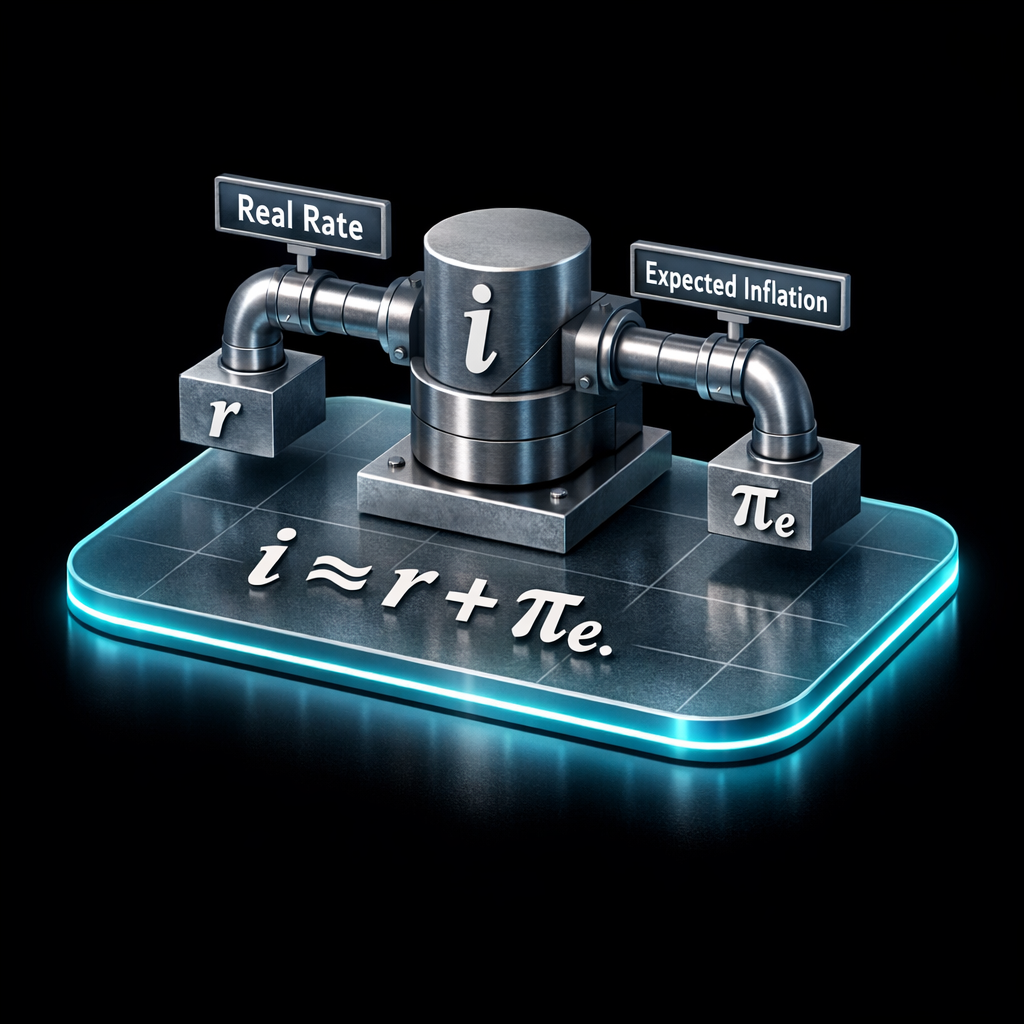
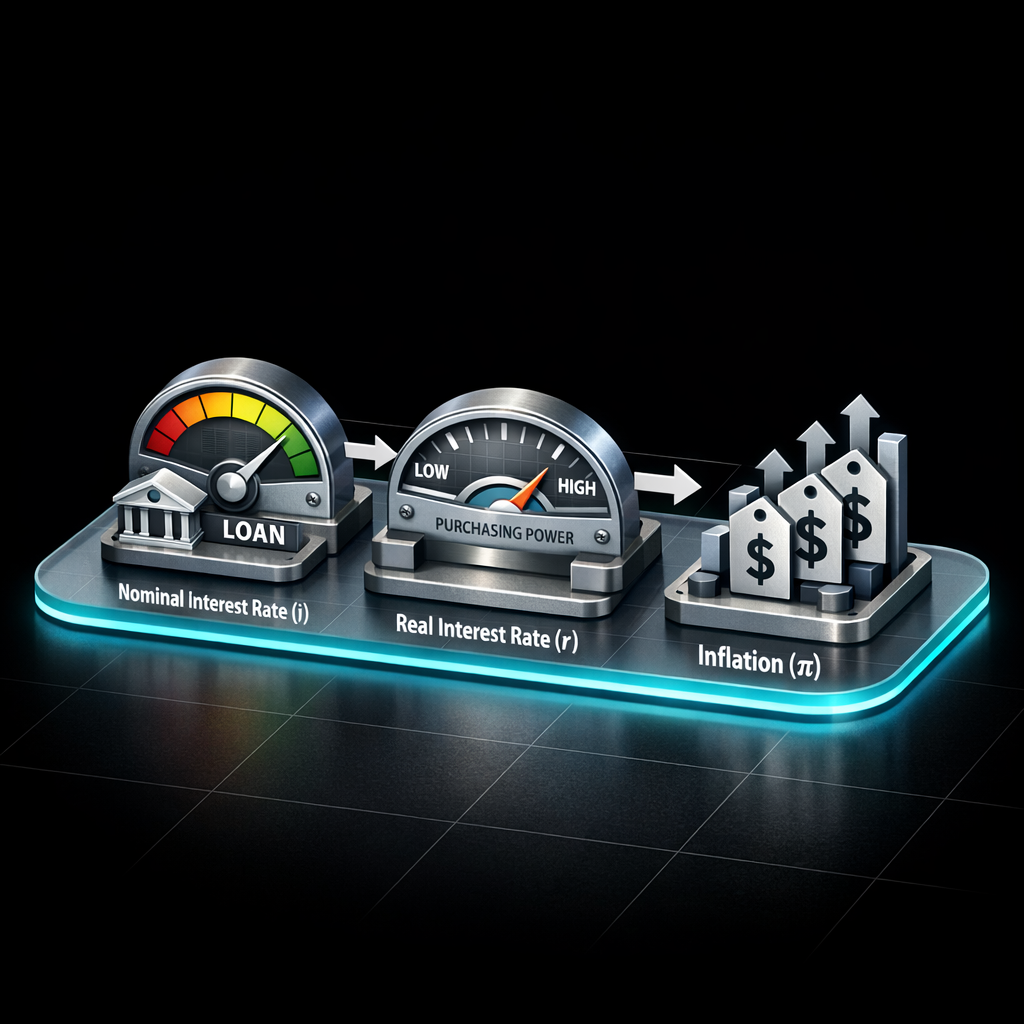
agent2

diff --git a/agent_simulator.py b/agent_simulator.py
@@ -1,7 +1,7 @@
 import os
 import json
-import requests
 import base64
+import requests
 from openai import OpenAI
 from dotenv import load_dotenv
 
@@ -13,6 +13,11 @@ load_dotenv()
 API_KEY = os.getenv("OPENAI_API_KEY")
 client = OpenAI(api_key=API_KEY)
 
+# 🚨 CONTROL FLAGS
+# True = Call API & Save Images. 
+# False = Print Prompts Only.
+GENERATE = False 
+
 # 🚨 MODEL SETTINGS
 LLM_MODEL = "gpt-5.2"          
 IMAGE_MODEL = "gpt-image-1.5"  
@@ -23,47 +28,63 @@ IMAGE_MODEL = "gpt-image-1.5"
 
 class EconomicStoryboardAgent:
     def __init__(self):
+        # ----------------------------------------------------------
+        # 1. THE "REALISM + CLARITY" DNA 
+        # ----------------------------------------------------------
         self.entity_style_dna = """
-        Visual Style: Minimalist 3D isometric, institutional design.
-        Material: Realistic steel/concrete machinery sitting on the glass base.
-        Lighting: Cinematic studio lighting with soft reflections on the floor.
+        Visual Style: High-fidelity, photorealistic miniature simulation.
+        
+        CRITICAL COMPOSITION RULES (Anti-Clutter):
+        - DISTINCT GROUPS: Do not clump agents/objects together. Use negative space to separate different elements.
+        - SILHOUETTES: Every object must have a clear, readable outline.
+        - ZONING: Organize the scene into clear 'zones' (e.g., Production Zone vs. Shipping Zone) rather than a chaotic mix.
+        - DEPTH: Use depth of field to keep the main action in sharp focus.
+        
+        Content Rules:
+        - NO METAPHORS (No magic, scales, monsters, balloons).
+        - SHOW THE MECHANISM (Price tags, inventory piles, idle machinery, shipping queues).
+        - INFRASTRUCTURE: Use realistic industry assets (conveyor belts, server racks, shipping containers).
+        - ACTORS: Realistic tiny humans in appropriate attire.
         """
         
         # ----------------------------------------------------------
-        # 💎 NEW BASE STYLE: "Glassmorphism / Tech-Neon"
+        # 2. THE "TECH-GLASS" BASE
         # ----------------------------------------------------------
         self.stage_settings = """
-        View: Isometric orthographic projection.
-        
-        Base: A thin, translucent frosted-glass platform (acrylic). 
-        - Shape: A sleek, rounded rectangle with smooth beveled edges.
-        - Glow: Soft neon blue/teal emission on the edges only.
-        - Thickness: Very slim/wafer-thin floating profile.
-        
-        Background: Pitch black void to make the neon edges pop.
-        Grid: Faint, laser-etched white grid lines on the glass surface.
-        """        
-
-
-        """ original
-        self.entity_style_dna =
-        Visual Style: Minimalist 3D isometric, institutional/civic design.
-        Material: Realistic steel/concrete, not cartoonish.
-        Lighting: Cinematic studio lighting.
-        
-        self.stage_settings =
-        View: Isometric orthographic.
-        Base: Rounded concrete base on black background.
-        Grid: Faint slanted grid on floor.
+        Stage Design:
+        - Base: A wafer-thin, translucent frosted-glass platform (acrylic style).
+        - Edges: Smooth, rounded corners with a soft neon blue/teal edge emission.
+        - Environment: Pitch black void. The only light comes from the scene and the base glow.
+        - Perspective: Isometric orthographic.
         """
-       
 
     def plan_scenes(self, concept):
-        print(f"🎬 Director ({LLM_MODEL}): Planning '{concept}'...")
+        print(f"🎬 Director ({LLM_MODEL}): Planning extended simulation for '{concept}'...")
+        
         prompt = f"""
-        Analyze "{concept}". Break into 1-3 scenes.
-        Return JSON ONLY: {{ "scenes": [ {{ "step": 1, "title": "Title", "sector": "Sector", "visual_action": "Action" }} ] }}
+        You are a Realistic Economic Simulator.
+        Goal: Visualize the concept "{concept}" using ONLY literal, physical economic activities.
+        
+        INSTRUCTIONS:
+        1. Analyze the complexity of the concept.
+        2. Break it down into a chronological sequence of simulation states.
+        3. DYNAMIC LENGTH: Use between 2 to 6 scenes. Do not rush. If the concept needs 5 steps to show the cause-and-effect properly, use 5 steps.
+        
+        STRICT VISUAL RULES:
+        - NO VISUAL METAPHORS.
+        - SHOW CAUSE & EFFECT (e.g., Step 1: Factory running; Step 2: Supply shortage; Step 3: Production halts).
+        
+        Return JSON ONLY: 
+        {{ "scenes": [ 
+            {{ 
+                "step": 1, 
+                "title": "State 1 Title", 
+                "sector": "Industry Type", 
+                "visual_action": "Detailed description emphasizing distinct object separation." 
+            }} 
+        ] }}
         """
+        
         try:
             response = client.chat.completions.create(
                 model=LLM_MODEL, 
@@ -77,70 +98,81 @@ class EconomicStoryboardAgent:
 
     def generate_prompt(self, scene_data):
         return f"""
-        Isometric icon of {scene_data['sector']}.
-        Action: {scene_data['visual_action']}.
+        A photorealistic 3D isometric simulation of {scene_data['sector']}.
+        
+        SCENE ACTION (Literal Economic Mechanism):
+        {scene_data['visual_action']}
+        
         {self.entity_style_dna}
         {self.stage_settings}
+        
+        Details:
+        - Step {scene_data.get('step', 1)}: {scene_data.get('title')}.
+        - Ensure high contrast between objects and the background for readability.
         """
 
     def render_storyboard(self, concept):
         scenes = self.plan_scenes(concept)
         if not scenes: return
 
-        print(f"📋 Plan approved: {len(scenes)} scenes.")
+        print(f"📋 Simulation Plan: {len(scenes)} states defined.")
         
         for scene in scenes:
-            print(f"\n🎨 Rendering Step {scene['step']} using {IMAGE_MODEL}...")
+            print(f"\n👉 Processing Step {scene['step']}: {scene['title']}...")
             prompt = self.generate_prompt(scene)
             filename = f"{concept.replace(' ', '_')}_step{scene['step']}.png"
             
+            # --------------------------------------------------
+            # 🛑 DRY RUN MODE
+            # --------------------------------------------------
+            if not GENERATE:
+                print("\n" + "="*60)
+                print(f"📝 PROMPT FOR STEP {scene['step']} (COPY BELOW):")
+                print("-" * 20)
+                print(prompt.strip())
+                print("-" * 20)
+                print("="*60 + "\n")
+                continue 
+
+            # --------------------------------------------------
+            # 🎨 GENERATE MODE
+            # --------------------------------------------------
             try:
-                # --------------------------------------------------
-                # 🛡 SAFE BARE-BONES REQUEST
-                # --------------------------------------------------
+                print(f"   🎨 Sending to {IMAGE_MODEL}...")
+                
                 response = client.images.generate(
                     model=IMAGE_MODEL,
                     prompt=prompt,
                     size="1024x1024",
                     n=1
-                    # NO style, NO quality, NO response_format
                 )
                 
-                # --------------------------------------------------
-                # 🕵 DATA EXTRACTION & DEBUGGING
-                # --------------------------------------------------
+                # 🕵 DATA EXTRACTION
                 image_data = None
                 data_obj = response.data[0]
 
-                # Check 1: Standard URL
                 if getattr(data_obj, 'url', None):
-                    print("   ⬇  Downloading from URL...")
                     image_data = requests.get(data_obj.url).content
-                
-                # Check 2: Base64 JSON
                 elif getattr(data_obj, 'b64_json', None):
-                    print("   🧩 Decoding Base64...")
                     image_data = base64.b64decode(data_obj.b64_json)
-                
-                # Check 3: Raw Dict (some custom models return dicts)
                 elif isinstance(data_obj, dict):
-                     if 'url' in data_obj:
-                         image_data = requests.get(data_obj['url']).content
-                     elif 'b64_json' in data_obj:
-                         image_data = base64.b64decode(data_obj['b64_json'])
+                     if 'url' in data_obj: image_data = requests.get(data_obj['url']).content
+                     elif 'b64_json' in data_obj: image_data = base64.b64decode(data_obj['b64_json'])
 
-                # 🛑 FAILURE HANDLING
                 if image_data:
                     with open(filename, 'wb') as f:
                         f.write(image_data)
-                    print(f"   ✅ Saved: {filename}")
+                    print(f"   ✅ Simulation Captured: {filename}")
                 else:
-                    print("   ❌ Error: Could not find image data in response.")
-                    print(f"   ⚠ DEBUG RAW RESPONSE: {data_obj}")
+                    print(f"   ❌ Error: No image data found.")
 
             except Exception as e:
-                print(f"   ❌ API Request Failed: {e}")
+                print(f"   ❌ Simulation Failed: {e}")
 
 if __name__ == "__main__":
     agent = EconomicStoryboardAgent()
-    agent.render_storyboard("Fisher equation, which expresses the relationship between nominal interest rates, real interest rates, and inflation")
+    
+    # Test with a complex concept to trigger multiple steps
+    concept = "the Fisher equation, which expresses the relationship between nominal interest rates, real interest rates, and inflation" 
+    
+    agent.render_storyboard(concept)

diff --git a/agent_simulator_old.py b/agent_simulator_old.py
@@ -1,0 +1,146 @@
+import os
+import json
+import requests
+import base64
+from openai import OpenAI
+from dotenv import load_dotenv
+
+load_dotenv()
+
+# ------------------------------------------------------------------
+# ⚙ CONFIGURATION
+# ------------------------------------------------------------------
+API_KEY = os.getenv("OPENAI_API_KEY")
+client = OpenAI(api_key=API_KEY)
+
+# 🚨 MODEL SETTINGS
+LLM_MODEL = "gpt-5.2"          
+IMAGE_MODEL = "gpt-image-1.5"  
+
+# ------------------------------------------------------------------
+# 🎨 AGENT LOGIC
+# ------------------------------------------------------------------
+
+class EconomicStoryboardAgent:
+    def __init__(self):
+        self.entity_style_dna = """
+        Visual Style: Minimalist 3D isometric, institutional design.
+        Material: Realistic steel/concrete machinery sitting on the glass base.
+        Lighting: Cinematic studio lighting with soft reflections on the floor.
+        """
+        
+        # ----------------------------------------------------------
+        # 💎 NEW BASE STYLE: "Glassmorphism / Tech-Neon"
+        # ----------------------------------------------------------
+        self.stage_settings = """
+        View: Isometric orthographic projection.
+        
+        Base: A thin, translucent frosted-glass platform (acrylic). 
+        - Shape: A sleek, rounded rectangle with smooth beveled edges.
+        - Glow: Soft neon blue/teal emission on the edges only.
+        - Thickness: Very slim/wafer-thin floating profile.
+        
+        Background: Pitch black void to make the neon edges pop.
+        Grid: Faint, laser-etched white grid lines on the glass surface.
+        """        
+
+
+        """ original
+        self.entity_style_dna =
+        Visual Style: Minimalist 3D isometric, institutional/civic design.
+        Material: Realistic steel/concrete, not cartoonish.
+        Lighting: Cinematic studio lighting.
+        
+        self.stage_settings =
+        View: Isometric orthographic.
+        Base: Rounded concrete base on black background.
+        Grid: Faint slanted grid on floor.
+        """
+       
+
+    def plan_scenes(self, concept):
+        print(f"🎬 Director ({LLM_MODEL}): Planning '{concept}'...")
+        prompt = f"""
+        Analyze "{concept}". Break into 1-3 scenes.
+        Return JSON ONLY: {{ "scenes": [ {{ "step": 1, "title": "Title", "sector": "Sector", "visual_action": "Action" }} ] }}
+        """
+        try:
+            response = client.chat.completions.create(
+                model=LLM_MODEL, 
+                messages=[{"role": "user", "content": prompt}],
+                response_format={"type": "json_object"}
+            )
+            return json.loads(response.choices[0].message.content).get("scenes", [])
+        except Exception as e:
+            print(f"❌ Planning Error: {e}")
+            return []
+
+    def generate_prompt(self, scene_data):
+        return f"""
+        Isometric icon of {scene_data['sector']}.
+        Action: {scene_data['visual_action']}.
+        {self.entity_style_dna}
+        {self.stage_settings}
+        """
+
+    def render_storyboard(self, concept):
+        scenes = self.plan_scenes(concept)
+        if not scenes: return
+
+        print(f"📋 Plan approved: {len(scenes)} scenes.")
+        
+        for scene in scenes:
+            print(f"\n🎨 Rendering Step {scene['step']} using {IMAGE_MODEL}...")
+            prompt = self.generate_prompt(scene)
+            filename = f"{concept.replace(' ', '_')}_step{scene['step']}.png"
+            
+            try:
+                # --------------------------------------------------
+                # 🛡 SAFE BARE-BONES REQUEST
+                # --------------------------------------------------
+                response = client.images.generate(
+                    model=IMAGE_MODEL,
+                    prompt=prompt,
+                    size="1024x1024",
+                    n=1
+                    # NO style, NO quality, NO response_format
+                )
+                
+                # --------------------------------------------------
+                # 🕵 DATA EXTRACTION & DEBUGGING
+                # --------------------------------------------------
+                image_data = None
+                data_obj = response.data[0]
+
+                # Check 1: Standard URL
+                if getattr(data_obj, 'url', None):
+                    print("   ⬇  Downloading from URL...")
+                    image_data = requests.get(data_obj.url).content
+                
+                # Check 2: Base64 JSON
+                elif getattr(data_obj, 'b64_json', None):
+                    print("   🧩 Decoding Base64...")
+                    image_data = base64.b64decode(data_obj.b64_json)
+                
+                # Check 3: Raw Dict (some custom models return dicts)
+                elif isinstance(data_obj, dict):
+                     if 'url' in data_obj:
+                         image_data = requests.get(data_obj['url']).content
+                     elif 'b64_json' in data_obj:
+                         image_data = base64.b64decode(data_obj['b64_json'])
+
+                # 🛑 FAILURE HANDLING
+                if image_data:
+                    with open(filename, 'wb') as f:
+                        f.write(image_data)
+                    print(f"   ✅ Saved: {filename}")
+                else:
+                    print("   ❌ Error: Could not find image data in response.")
+                    print(f"   ⚠ DEBUG RAW RESPONSE: {data_obj}")
+
+            except Exception as e:
+                print(f"   ❌ API Request Failed: {e}")
+
+if __name__ == "__main__":
+    agent = EconomicStoryboardAgent()
+    agent.render_storyboard("Fisher equation, which expresses the relationship between nominal interest rates, real interest rates, and inflation")
